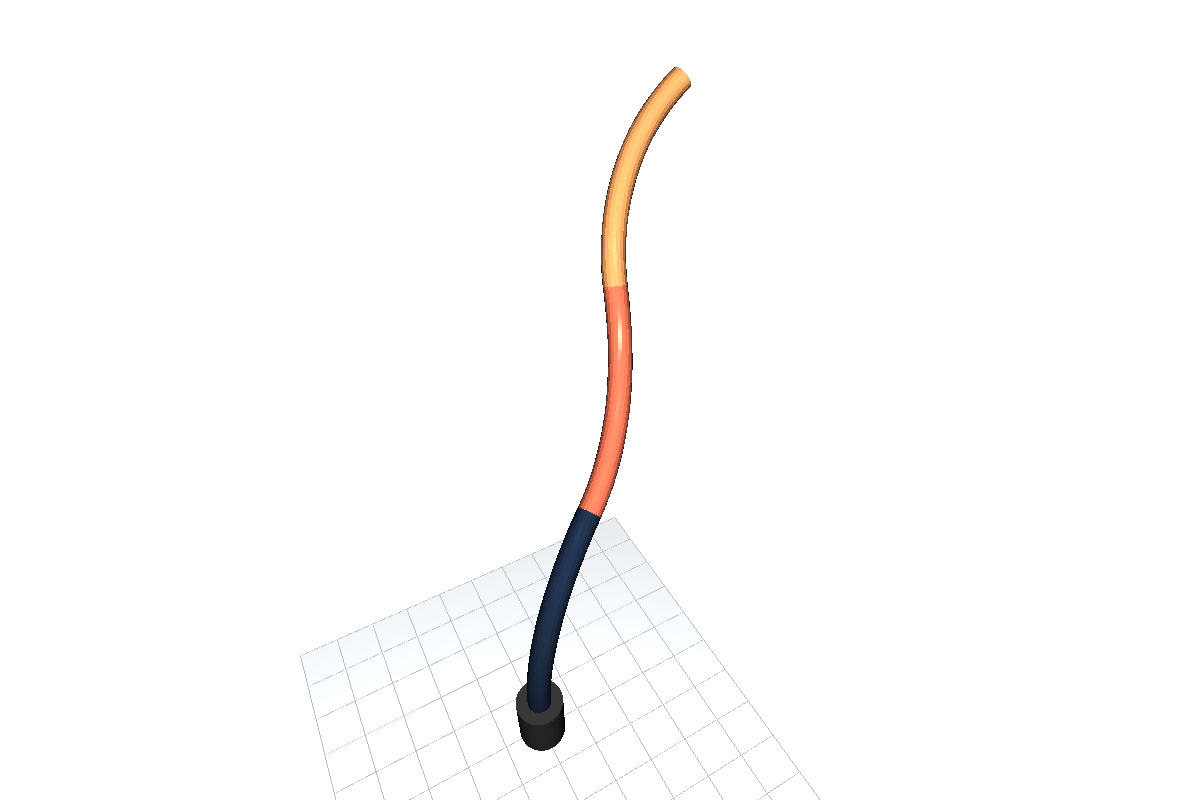
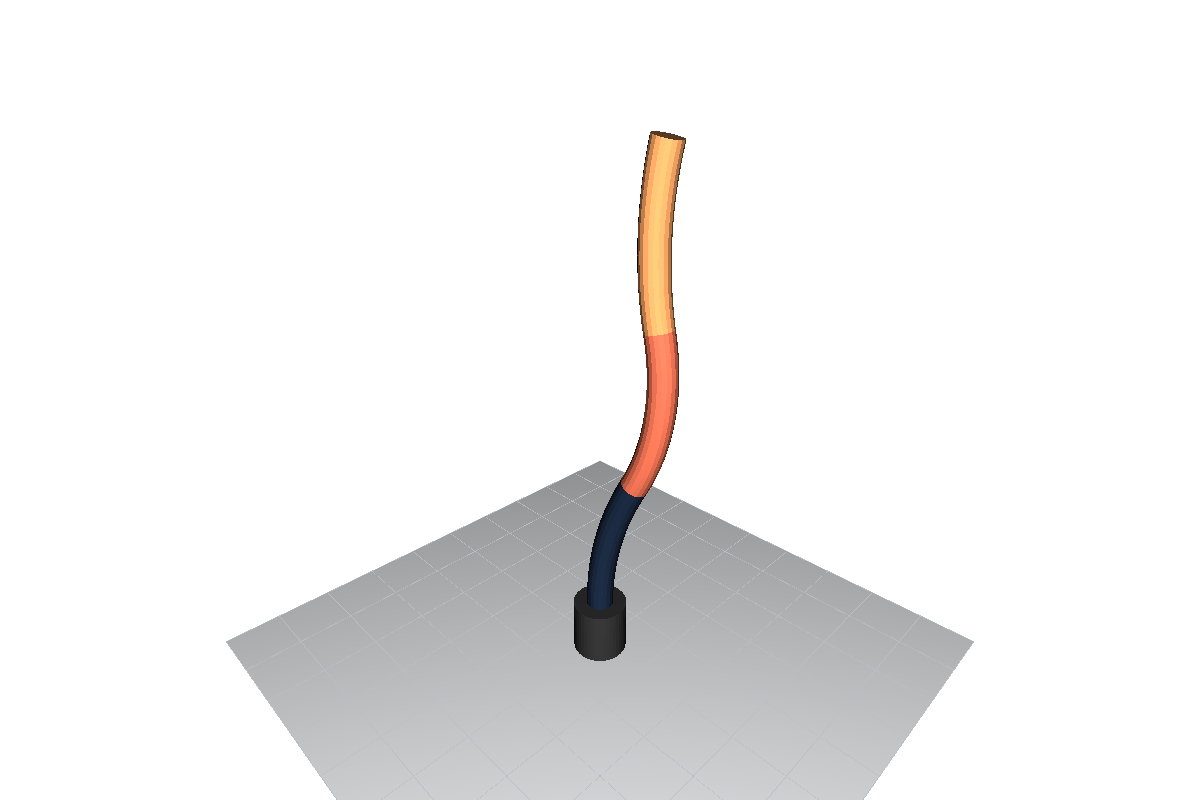
docs: improve renderer gallery and examples

Changed region(s): [[0.185, 0.0625, 0.8325, 1.0]]

diff --git a/src/soromox/rendering/viser_renderer.py b/src/soromox/rendering/viser_renderer.py
@@ -224,14 +224,11 @@ class ViserRenderer(BaseSoftRobotRenderer):
     - Video export via FFmpeg
 
     Example:
-        >>> renderer = ViserRenderer(robot, port=8080)
-        >>> renderer.show(q)  # Opens browser at localhost:8080
-
-        >>> # Animation replay
-        >>> renderer.render_sequence(ts, q_ts, playback_speed=1.0, loop=True)
-
-        >>> # Live mode
-        >>> ctrl = renderer.start_live_mode(callback=lambda t: compute_q(t))
+        ```python
+        renderer = ViserRenderer(robot, port=8080)
+        renderer.show(q)
+        renderer.render_sequence(ts, q_ts, playback_speed=1.0, loop=True)
+        ```
     """
 
     def __init__(

diff --git a/src/soromox/rendering/matplotlib_renderer.py b/src/soromox/rendering/matplotlib_renderer.py
@@ -38,10 +38,11 @@ class MatplotlibRenderer(BaseSoftRobotRenderer):
     The dimensionality is auto-detected from the robot's forward kinematics output.
 
     Example:
-        >>> renderer = MatplotlibRenderer(robot)
-        >>> renderer.show(q)  # Single frame
-        >>> renderer.animate(ts, q_ts, mode="slider")  # Interactive slider
-        >>> renderer.animate(ts, q_ts, mode="animation")  # Auto-play
+        ```python
+        renderer = MatplotlibRenderer(robot)
+        renderer.show(q)
+        renderer.animate(ts, q_ts, mode="slider")
+        ```
     """
 
     def __init__(

diff --git a/src/soromox/rendering/open3d_renderer.py b/src/soromox/rendering/open3d_renderer.py
@@ -629,10 +629,11 @@ class Open3DRenderer(BaseSoftRobotRenderer):
     optional actuator rendering, and keyboard controls.
 
     Example:
-        >>> renderer = Open3DRenderer(robot)
-        >>> renderer.show(q)  # Single interactive frame
-        >>> renderer.render_sequence(ts, q_ts, playback_speed=1.0)  # Animated playback
-        >>> img = renderer.render_frame(q)  # Headless capture
+        ```python
+        renderer = Open3DRenderer(robot)
+        renderer.show(q)
+        renderer.render_sequence(ts, q_ts, playback_speed=1.0)
+        ```
     """
 
     def __init__(

diff --git a/src/soromox/rendering/planar_hsa/opencv_renderer.py b/src/soromox/rendering/planar_hsa/opencv_renderer.py
@@ -22,9 +22,11 @@ class OpenCVPlanarHSARenderer(BaseOpenCVRenderer):
     This is a specialized renderer that uses HSA-specific forward kinematics.
 
     Example:
-        >>> renderer = OpenCVPlanarHSARenderer(robot)
-        >>> img = renderer.render_frame(q)
-        >>> renderer.show(q)
+        ```python
+        renderer = OpenCVPlanarHSARenderer(robot)
+        image = renderer.render_frame(q)
+        renderer.show(q)
+        ```
     """
 
     def __init__(

diff --git a/src/soromox/rendering/opencv_planar_renderer.py b/src/soromox/rendering/opencv_planar_renderer.py
@@ -21,9 +21,11 @@ class OpenCVPlanarRenderer(BaseOpenCVRenderer):
     per-segment radii are available.
 
     Example:
-        >>> renderer = OpenCVPlanarRenderer(robot)
-        >>> img = renderer.render_frame(q)
-        >>> renderer.show(q)
+        ```python
+        renderer = OpenCVPlanarRenderer(robot)
+        image = renderer.render_frame(q)
+        renderer.show(q)
+        ```
     """
 
     def __init__(

diff --git a/docs/api/rendering/configuration.md b/docs/api/rendering/configuration.md
@@ -1,6 +1,7 @@
-# Camera & Colors Configuration
+# Shared Renderer Configuration
 
-This page documents the camera and color configuration options for SoRoMoX renderers.
+This page documents camera, base, ground-plane, and color settings shared by
+multiple SoRoMoX renderers.
 
 ## Camera Configuration
 
@@ -43,6 +44,39 @@ renderer.show(q, camera_config=camera)
 
 ---
 
+## Robot Base and Ground Plane
+
+All renderers obtain the robot origin and orientation from the model's
+`base_pose` and `base_transform`. This keeps the rendered backbone, base, and
+reference geometry in the same world frame without a renderer-specific pose
+override.
+
+| Setting | Purpose | Availability |
+| --- | --- | --- |
+| `base_plate_radius_scale` | Scales the rendered base-plate radius relative to the robot cross section | Open3D and Viser |
+| `base_plate_thickness` | Sets the base-plate thickness in meters | Open3D and Viser |
+| `show_ground_plane` | Shows or hides the base-aligned reference plane | Matplotlib, Open3D, and Viser |
+| `ground_plane_size` | Sets the reference-plane side length in meters; `None` uses a robot-scaled default | Matplotlib, Open3D, and Viser |
+
+```python
+from soromox.rendering import ViserRenderer
+
+renderer = ViserRenderer(
+    robot,
+    base_plate_radius_scale=2.0,
+    base_plate_thickness=0.06,
+    show_ground_plane=True,
+    ground_plane_size=0.6,
+)
+```
+
+Matplotlib draws a lightweight base marker. Open3D and Viser render base-plate
+geometry and place the ground plane immediately behind it along the model's
+base axis. Viser uses its native grid primitive. Specialized Viser renderers,
+including I-SUPPORT and UMArm, inherit these settings.
+
+---
+
 ## Color Configuration
 
 ### Color Hierarchy
@@ -81,13 +115,6 @@ color_config = RendererColorConfig(
 
 renderer.show(q, color_config=color_config)
 ```
-
-Matplotlib, Open3D, and Viser show a base-aligned ground reference by default.
-Pass `show_ground_plane=False` to the renderer constructor to hide it, or set
-`ground_plane_size` to control its side length in meters. Viser uses its native
-grid primitive; the I-SUPPORT and UMArm renderers inherit the same behavior.
-`BaseSoftRobotRenderer` stores and validates these shared settings, while each
-backend remains responsible for drawing its native ground-plane representation.
 
 ::: soromox.rendering.color_config.RendererColorConfig
     options:

diff --git a/docs/api/rendering/renderers.md b/docs/api/rendering/renderers.md
@@ -1,10 +1,10 @@
-# Rendering
+# Renderer API
 
 Visualization and rendering utilities for robot systems.
 
-Composable actuators expose semantic geometry through
-`robot.actuator_visual_layers(...)`; see
-[Threadlike actuation](../actuation/threadlike.md#rendering).
+Start with the [Rendering overview](index.md) to compare visual output and
+choose a backend. This page documents the shared renderer contract and each
+backend's API.
 
 ## Overview
 
@@ -20,6 +20,19 @@ BaseSoftRobotRenderer (abstract base)
 ├── OpenCVPlanarHSARenderer    # Specialized for PlanarHSA
 └── OpenCVPlanarRenderer       # Generic for planar robots
 ```
+
+### Shared renderer API
+
+| API | Shared behavior | Availability |
+| --- | --- | --- |
+| `BaseSoftRobotRenderer` | Backbone sampling, cached forward kinematics, batched layouts, color resolution, and the common rendering interface | All renderers |
+| Robot base | The robot's `base_pose` and `base_transform` place and orient the rendered robot in the world frame | All renderers |
+| Base plate | `base_plate_radius_scale` and `base_plate_thickness` configure the base geometry | Open3D and Viser; Matplotlib draws a lightweight base marker |
+| Ground plane | `show_ground_plane` and `ground_plane_size` configure a base-aligned reference plane; its colors come from `RendererColorConfig` | Matplotlib, Open3D, and Viser |
+
+See [Shared Configuration](configuration.md) for the camera, color, base, and
+ground-plane settings. Backend-specific parameters and methods are listed in
+the API reference below.
 
 ### Choosing a renderer
 

diff --git a/docs/api/rendering/index.md b/docs/api/rendering/index.md
@@ -80,7 +80,7 @@ BaseSoftRobotRenderer (abstract base)
 
 ## Documentation
 
-### [Renderers](renderers.md)
+### [Renderer API](renderers.md)
 
 Complete API reference for all renderer classes:
 
@@ -91,11 +91,12 @@ Complete API reference for all renderer classes:
 - `OpenCVPlanarRenderer` - OpenCV-based 2D visualization
 - `OpenCVPlanarHSARenderer` - HSA-specific visualization
 
-### [Camera & Colors](configuration.md)
+### [Shared Configuration](configuration.md)
 
-Configuration options for camera positioning and color schemes:
+Settings shared by multiple renderer backends:
 
 - `CameraConfig` - Camera positioning and field of view
+- Robot base, base-plate, and ground-plane behavior
 - `RendererColorConfig` - Color configuration hierarchy
 - `BackboneColorConfig` - Backbone-specific colors
 - Built-in color palettes and themes
